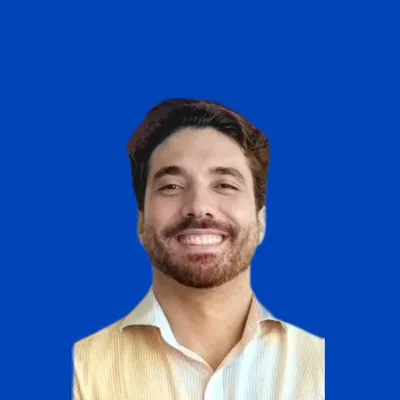
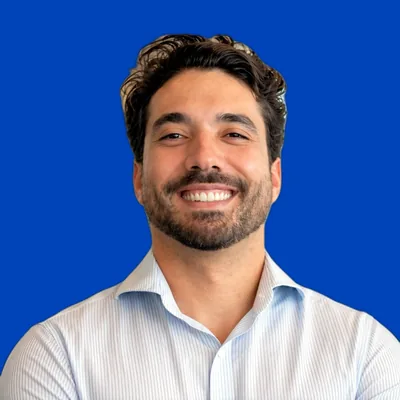
Montani: retrato oficial em cores e cargo Managing Director LATAM

diff --git a/site/evento.config.js b/site/evento.config.js
@@ -61,7 +61,7 @@ window.EVENTO = {
     { nome: "Elaine Martins Fuzer", cargo: "CEO e Fundadora", empresa: "e_Consulting",
       tema: "Painel principal: panorama do mercado de intercâmbio para 2027",
       slug: "elaine-fuzer", foto: true },
-    { nome: "Lucas Montani", cargo: "", empresa: "Ollara Education Hub",
+    { nome: "Lucas Montani", cargo: "Managing Director LATAM", empresa: "Ollara Education Hub",
       tema: "Painel principal: panorama do mercado de intercâmbio para 2027",
       slug: "lucas-montani", foto: true },
     { nome: "Rodrigo Collaro", cargo: "Managing Director", empresa: "PATH",

diff --git a/tools/build_images.py b/tools/build_images.py
@@ -79,8 +79,7 @@ PALESTRANTES = {
     "gizelle-rezende":     ("Palestrantes/Gizelle Rezende/Gizelle Rezende", {}),
     "alexandre-argenta":   ("Palestrantes/Alexandre Argenta/Alexandre Argenta - Foto 1.jpg", {}),
     "elaine-fuzer":        ("Palestrantes/Elaine Martins Fuzer/Foto_ELAINE_white.jpg", {}),
-    # foto original era P&B; colorizada com o modelo Zhang (cores estimadas)
-    "lucas-montani":       ("Palestrantes/Lucas Montani/Lucas Montani - Foto 1 colorida.png", {"erode": 9, "expand": True}),
+    "lucas-montani":       ("Palestrantes/Lucas Montani/Lucas Montani - Foto 2 (oficial).jpg", {}),
 }
 
 YUNET = cv2.FaceDetectorYN_create(
